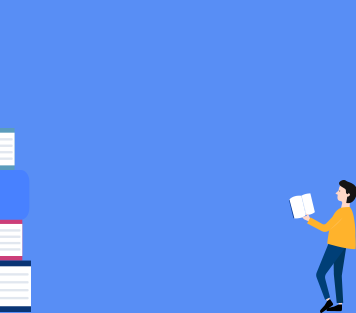
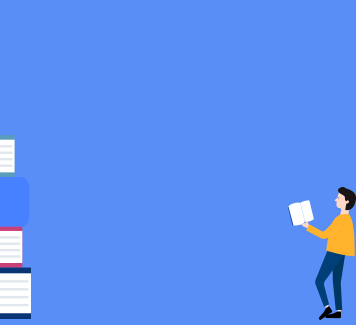
퍼블리싱 수정

diff --git a/src/main/webapp/resources/common/css/default.css b/src/main/webapp/resources/common/css/default.css
@@ -512,6 +512,9 @@ transform:translatez(0);
 .lnb>ul>li>ul>li>ul{padding:0 0 10px}
 .lnb>ul>li>a{padding:12px 20px 10px 15px;position:relative}
 .lnb>ul>li>ul>li>a{padding:5px 20px 5px 30px;background:url('../img/lnb-arr.gif') no-repeat 20px 13px}
+
+.lnb>ul>li>ul>li>ul>li>a{padding:5px 20px 5px 30px;background:url('../img/lnb-arr01.gif') no-repeat 20px 13px}
+
 .lnb>ul>li>ul>li.active>a{background-image:url('../img/lnb-arr-white.gif')}
 .lnb>ul>li>ul>li>ul>li>a{padding:5px 20px 4px 35px}
 .lnb>ul>li>ul{display:none}
